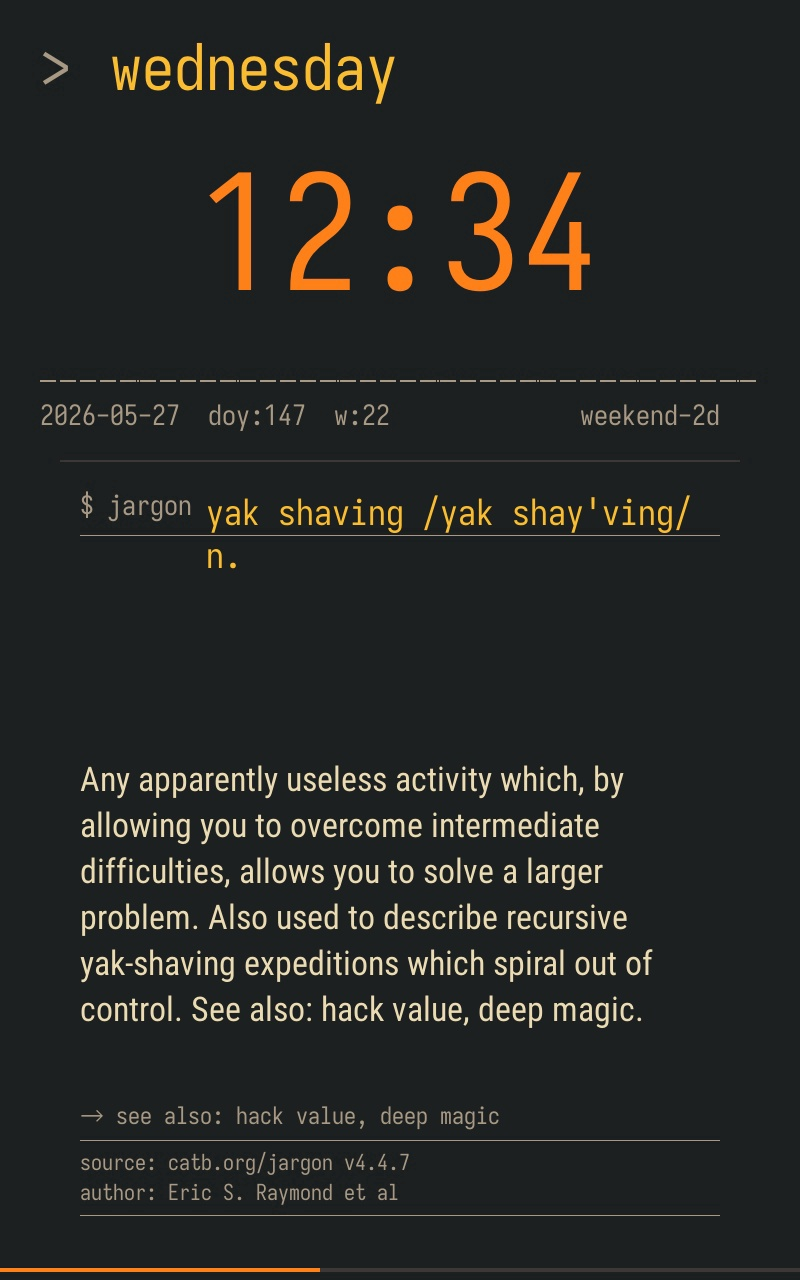
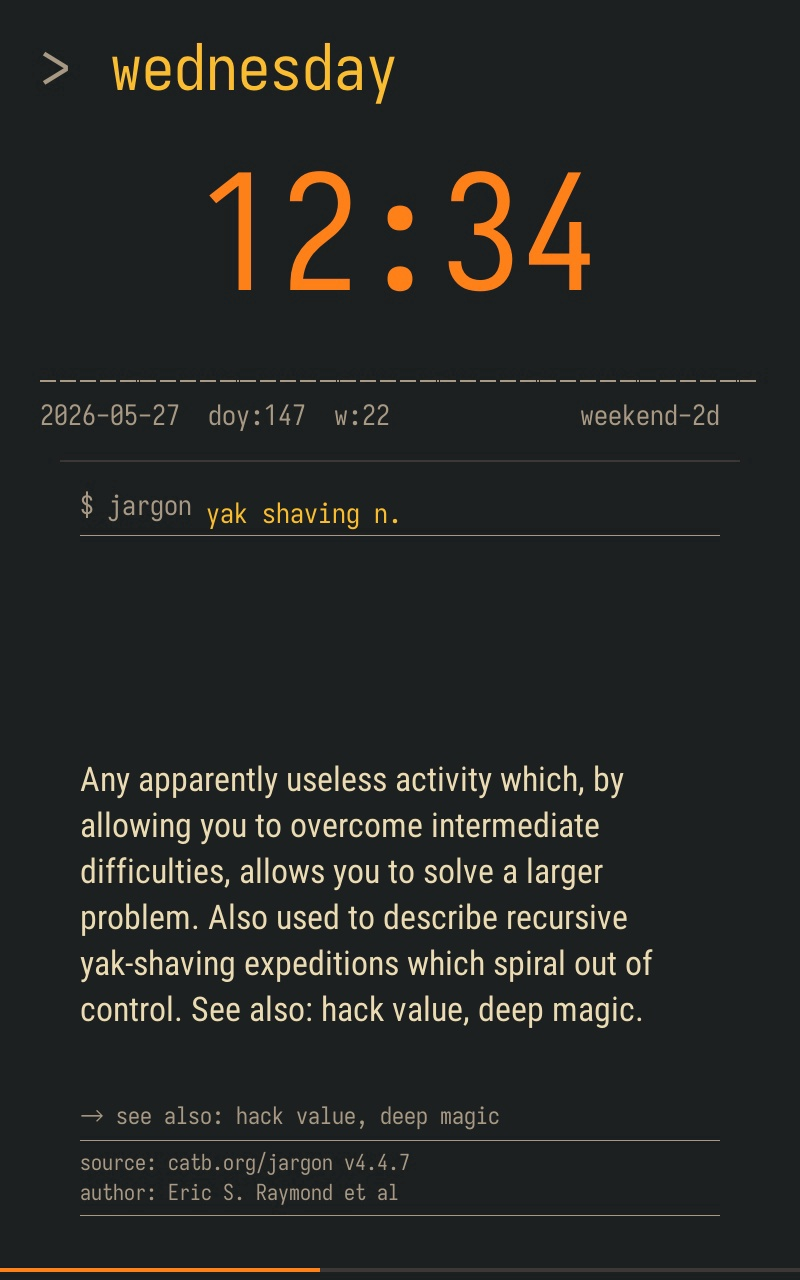
dictionaries: headword same size/baseline as the shell prompt, one line
The dictionary scenes (devil, jargon) had a hierarchy mismatch: a
huge headword (52pt fontProseBlack on devil, 36pt fontMono on jargon)
beside the much smaller baked "$ define" / "$ jargon" prompt
(Iosevka 28pt). Reads as "title above command" rather than as a
shell command continuing onto one line.

Drop both headwords to Iosevka 28pt (same font/size as the baked
prompt), baseline-aligned to y=515 (the prompt's baseline). The two
words now read as `$ define CYNIC, n.` and `$ jargon yak shaving n.`
— one continuous prompt line. Headword stays cYellow so the
distinction "this is the input" still reads.

Jargon-specific: drop the pronunciation guide ("/yak shay'ving/")
from the header formatter. With the headword at the prompt's size,
adding pronunciation pushed the line into wrap territory and the
designer asked for it to fit on one line. The pronunciation lived
in the body anyway, so nothing's lost.

All scene screenshots regenerated to match the latest code.

Changed region(s): [[0.5312, 0.375, 0.875, 0.4375], [0.25, 0.375, 0.5, 0.4375]]

diff --git a/cmd/divoom/scenes.go b/cmd/divoom/scenes.go
@@ -1470,9 +1470,13 @@ func dictionarySceneJargon(opts DictionarySceneOpts) *scene.Scene {
 	headwordX := dictionaryHeadwordX(opts.Name)
 	elements := []frame.DispElement{
 		{
+			// Headword in the same Iosevka 28pt as the baked "$ jargon"
+			// prompt to its left, on the same baseline (y=515) — the
+			// row reads as one shell-prompt line. StartY=495 so the
+			// device's top-anchored text sits with baseline ≈y=515.
 			ID: idSceneSub1, Type: "Text",
-			StartX: headwordX, StartY: 490, Width: CanvasW - 80 - headwordX, Height: 50,
-			Align: 0, FontSize: 36, FontID: fontMono,
+			StartX: headwordX, StartY: 495, Width: CanvasW - 80 - headwordX, Height: 36,
+			Align: 0, FontSize: 28, FontID: fontMono,
 			FontColor: cYellow, BgColor: cBgHard,
 		},
 		{
@@ -1509,12 +1513,14 @@ func dictionarySceneDevil(opts DictionarySceneOpts) *scene.Scene {
 	headwordX := dictionaryHeadwordX(opts.Name)
 	elements := []frame.DispElement{
 		{
-			// StartY=465 so the 58pt headword's baseline (≈y=515)
-			// aligns with the baked "$ define" prompt baseline at
-			// y=515 — both rendered words sit on the same line.
+			// Headword in the same Iosevka 28pt as the baked "$ define"
+			// prompt to its left, on the same baseline (y=515) — the
+			// header reads as one shell-prompt line (`$ define CYNIC, n.`).
+			// StartY=495 so the device's top-anchored text sits with
+			// baseline ≈y=515.
 			ID: idSceneSub1, Type: "Text",
-			StartX: headwordX, StartY: 465, Width: CanvasW - 80 - headwordX, Height: 70,
-			Align: 0, FontSize: 52, FontID: fontProseBlack,
+			StartX: headwordX, StartY: 495, Width: CanvasW - 80 - headwordX, Height: 36,
+			Align: 0, FontSize: 28, FontID: fontMono,
 			FontColor: cYellow, BgColor: cBgHard,
 		},
 		{
@@ -1590,18 +1596,15 @@ var dictionaryEntryWithPronRE = regexp.MustCompile(
 		`\.?\s+(.+)$`,
 )
 
-// jargonHeader builds the StyleManpage header line: headword + (optional)
-// pronunciation + POS joined with tabs. Falls back to the existing
-// dictionaryWord/POS shape when the entry doesn't carry a pronunciation.
+// jargonHeader builds the StyleManpage header line: headword + POS,
+// no pronunciation. Pronunciation guides (/yak shay'ving/, etc.)
+// pushed the row past one line and into wrap territory — the header
+// must fit beside the baked "$ jargon" prompt on a single line, so
+// we drop the pronunciation segment even when the entry carries one.
 func jargonHeader(raw string) (text, color string) {
 	body := dictionaryBody(raw)
 	if m := dictionaryEntryWithPronRE.FindStringSubmatch(body); m != nil {
-		parts := []string{m[1]}
-		if m[2] != "" {
-			parts = append(parts, m[2])
-		}
-		parts = append(parts, m[3]+".")
-		return strings.Join(parts, "  "), ""
+		return m[1] + "  " + m[3] + ".", ""
 	}
 	w, _ := dictionaryWord(raw)
 	p, _ := dictionaryPOS(raw)